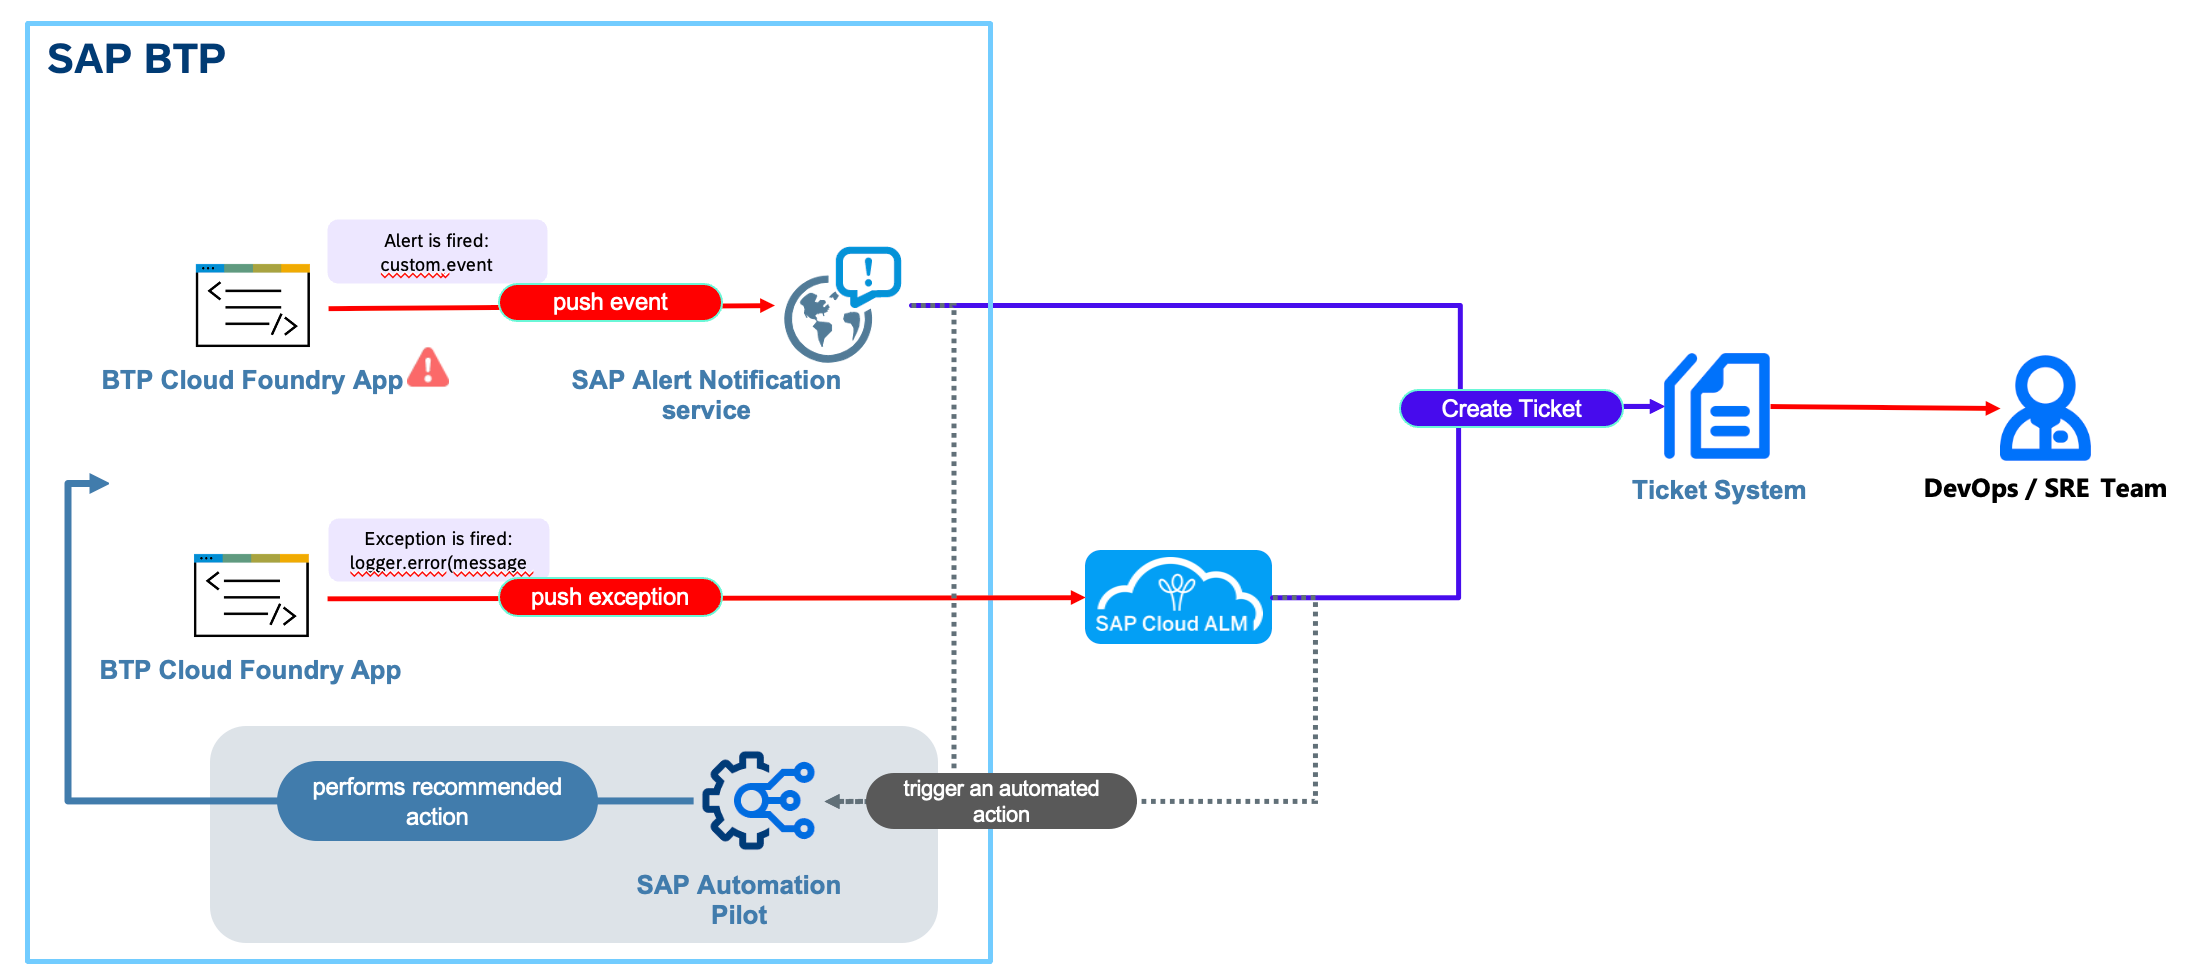
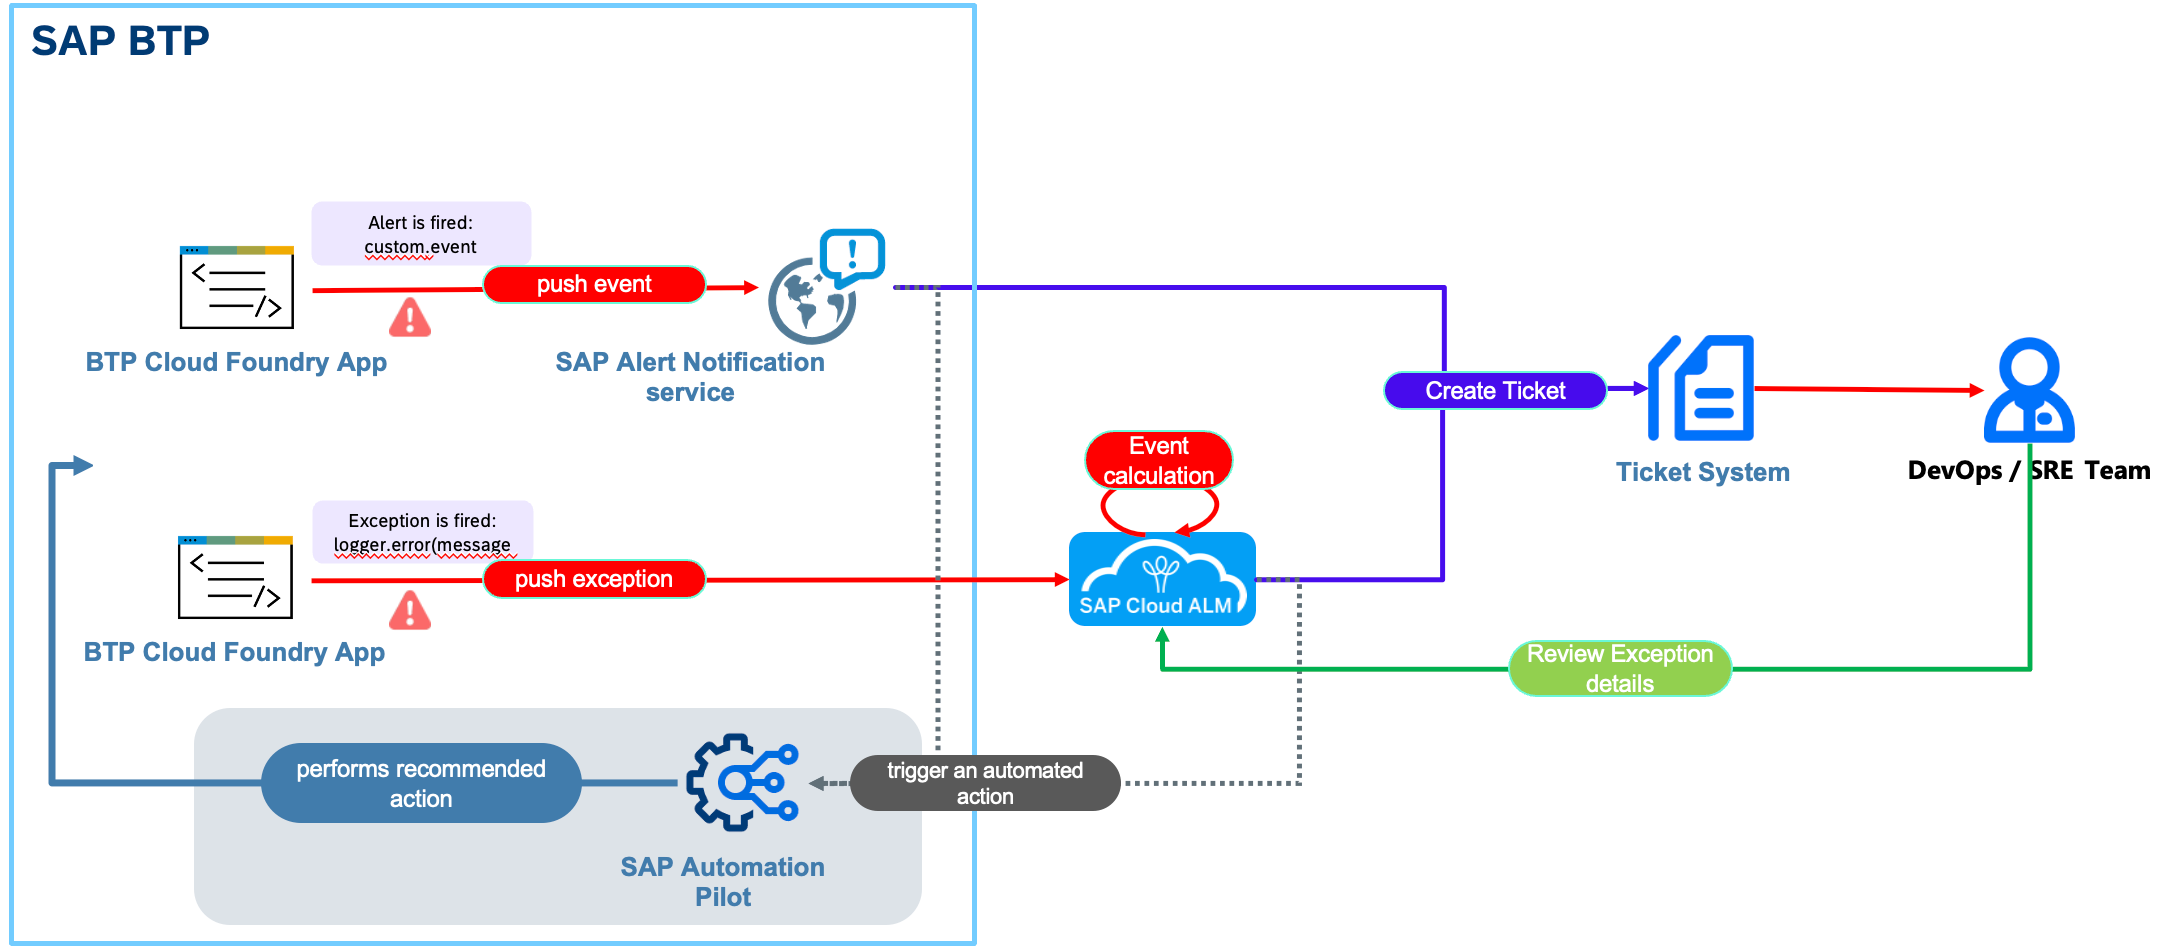
Images

Changed region(s): [[0.0, 0.0, 1.0, 1.0], [0.4958, 0.4274, 0.9297, 0.7326]]

diff --git a/README.md b/README.md
@@ -12,7 +12,7 @@ Get an overview regarding the coverage of the SAP Cloud ALM tool for use with th
 
 Reliability plays a central role, especially in hybrid landscapes that contain software-as-a-service (SaaS) cloud services, managed cloud components, and on-premise components. The different components involved must be monitored to maintain reliable operations at the application level. In case of an alert, a swift and ideally automatic reaction is required. SAP Cloud ALM provides monitoring applications for various components running in the cloud as well as on-premise.
 
-This session introduces attendees to the usage of SAP Cloud ALM as central observability solution for your whole SAP Solution Landscape. Escpecially in this session we will focus on the capabilities for customer developed applications in SAP BTP Cloud Foundry. You will learn how connect a PaaS application to SAP Cloud ALM, how to navigate Health Monitoring and Integration & Exception Monitoring and how to set up alerts and notifications. To react to alerts, you will learn how to forward the event situations from SAP Cloud ALM to external 3rd party incident management tools.
+This session introduces attendees to the usage of SAP Alert Notification service as BTP local event routing solution and to SAP Cloud ALM as central observability solution for your whole SAP Solution Landscape. Escpecially in this session we will focus on the capabilities for customer developed applications in SAP BTP Cloud Foundry. You will learn how connect a PaaS application to SAP Cloud ALM, how to navigate Health Monitoring and Integration & Exception Monitoring and how to set up alerts and notifications. To react to alerts, you will learn how to forward the event situations from SAP Cloud ALM to external 3rd party incident management tools.
 
 ![Demo scenario](./exercises/img/demo-scenario.png)
 
@@ -34,7 +34,7 @@ The requirements to follow the exercises in this repository
 - [Exercise 5 - Troubleshooting](exercises/ex5/)
 
 
-Start the exercises [here] (https://ad263-ptnlz9xc.eu10.alm.cloud.sap/launchpad#Shell-home)).
+Start the exercises [here] (https://ad263-ptnlz9xc.eu10.alm.cloud.sap/launchpad#Shell-home).
 
 ## Presentation
 Access the ...
